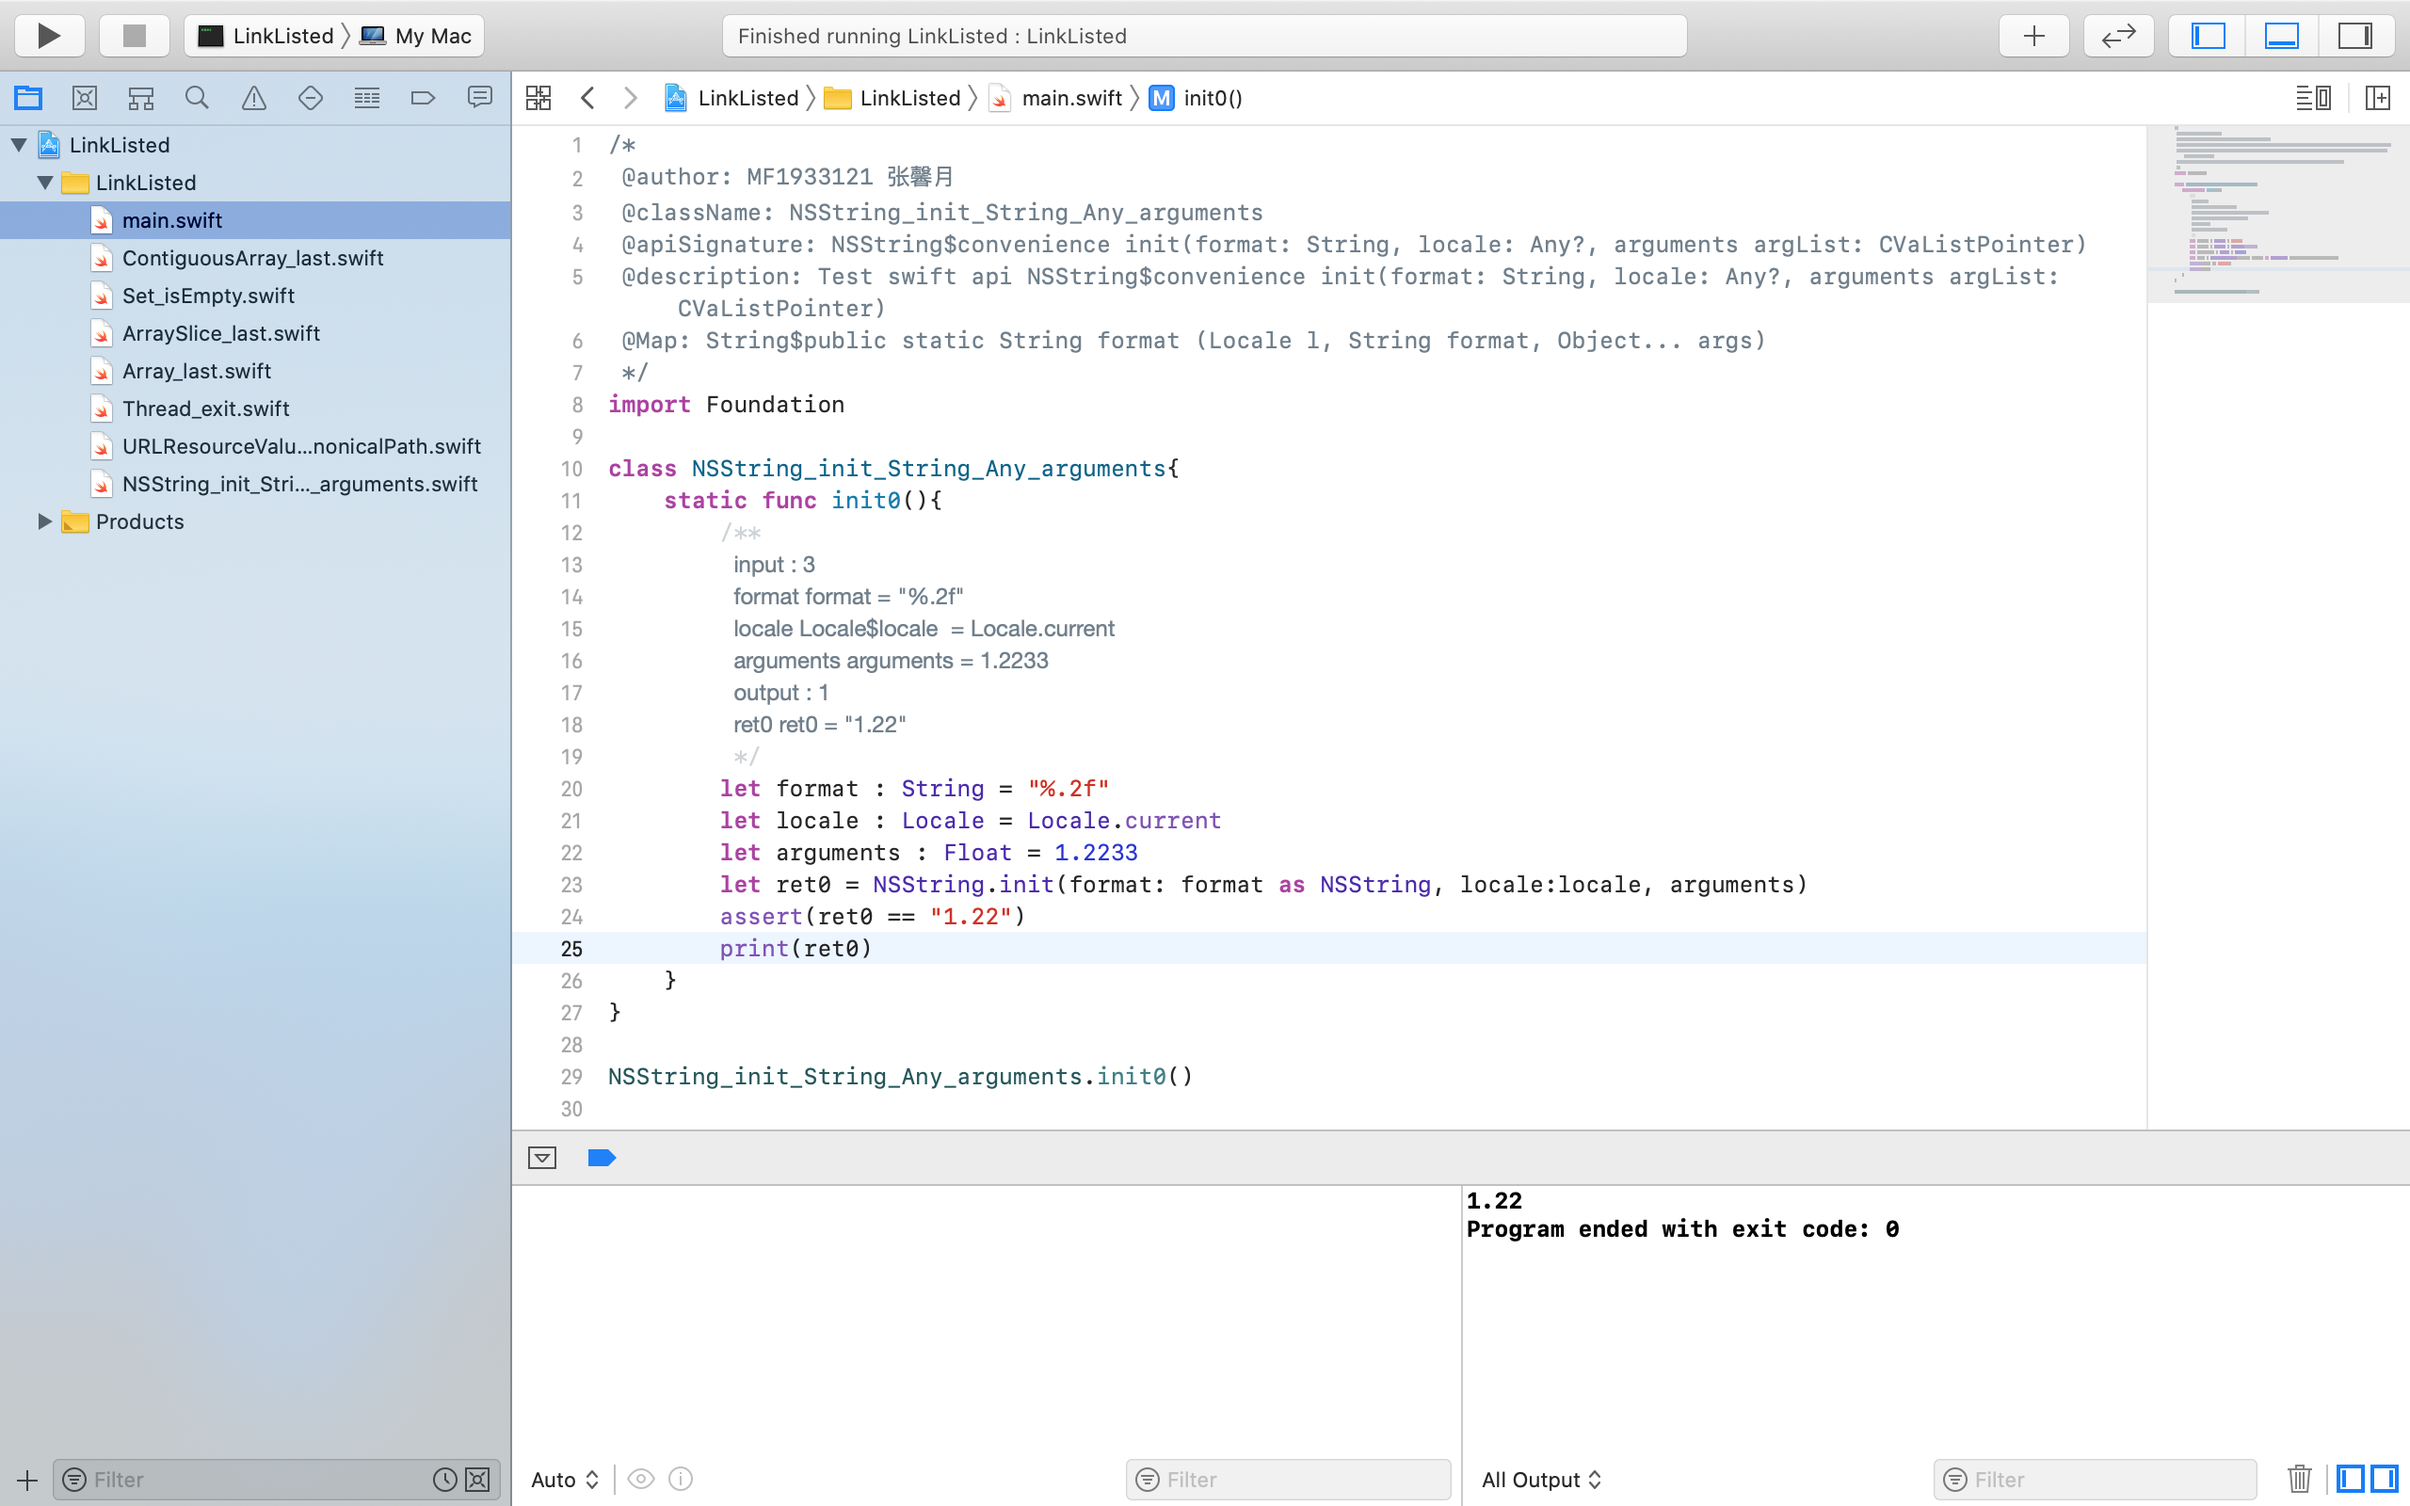
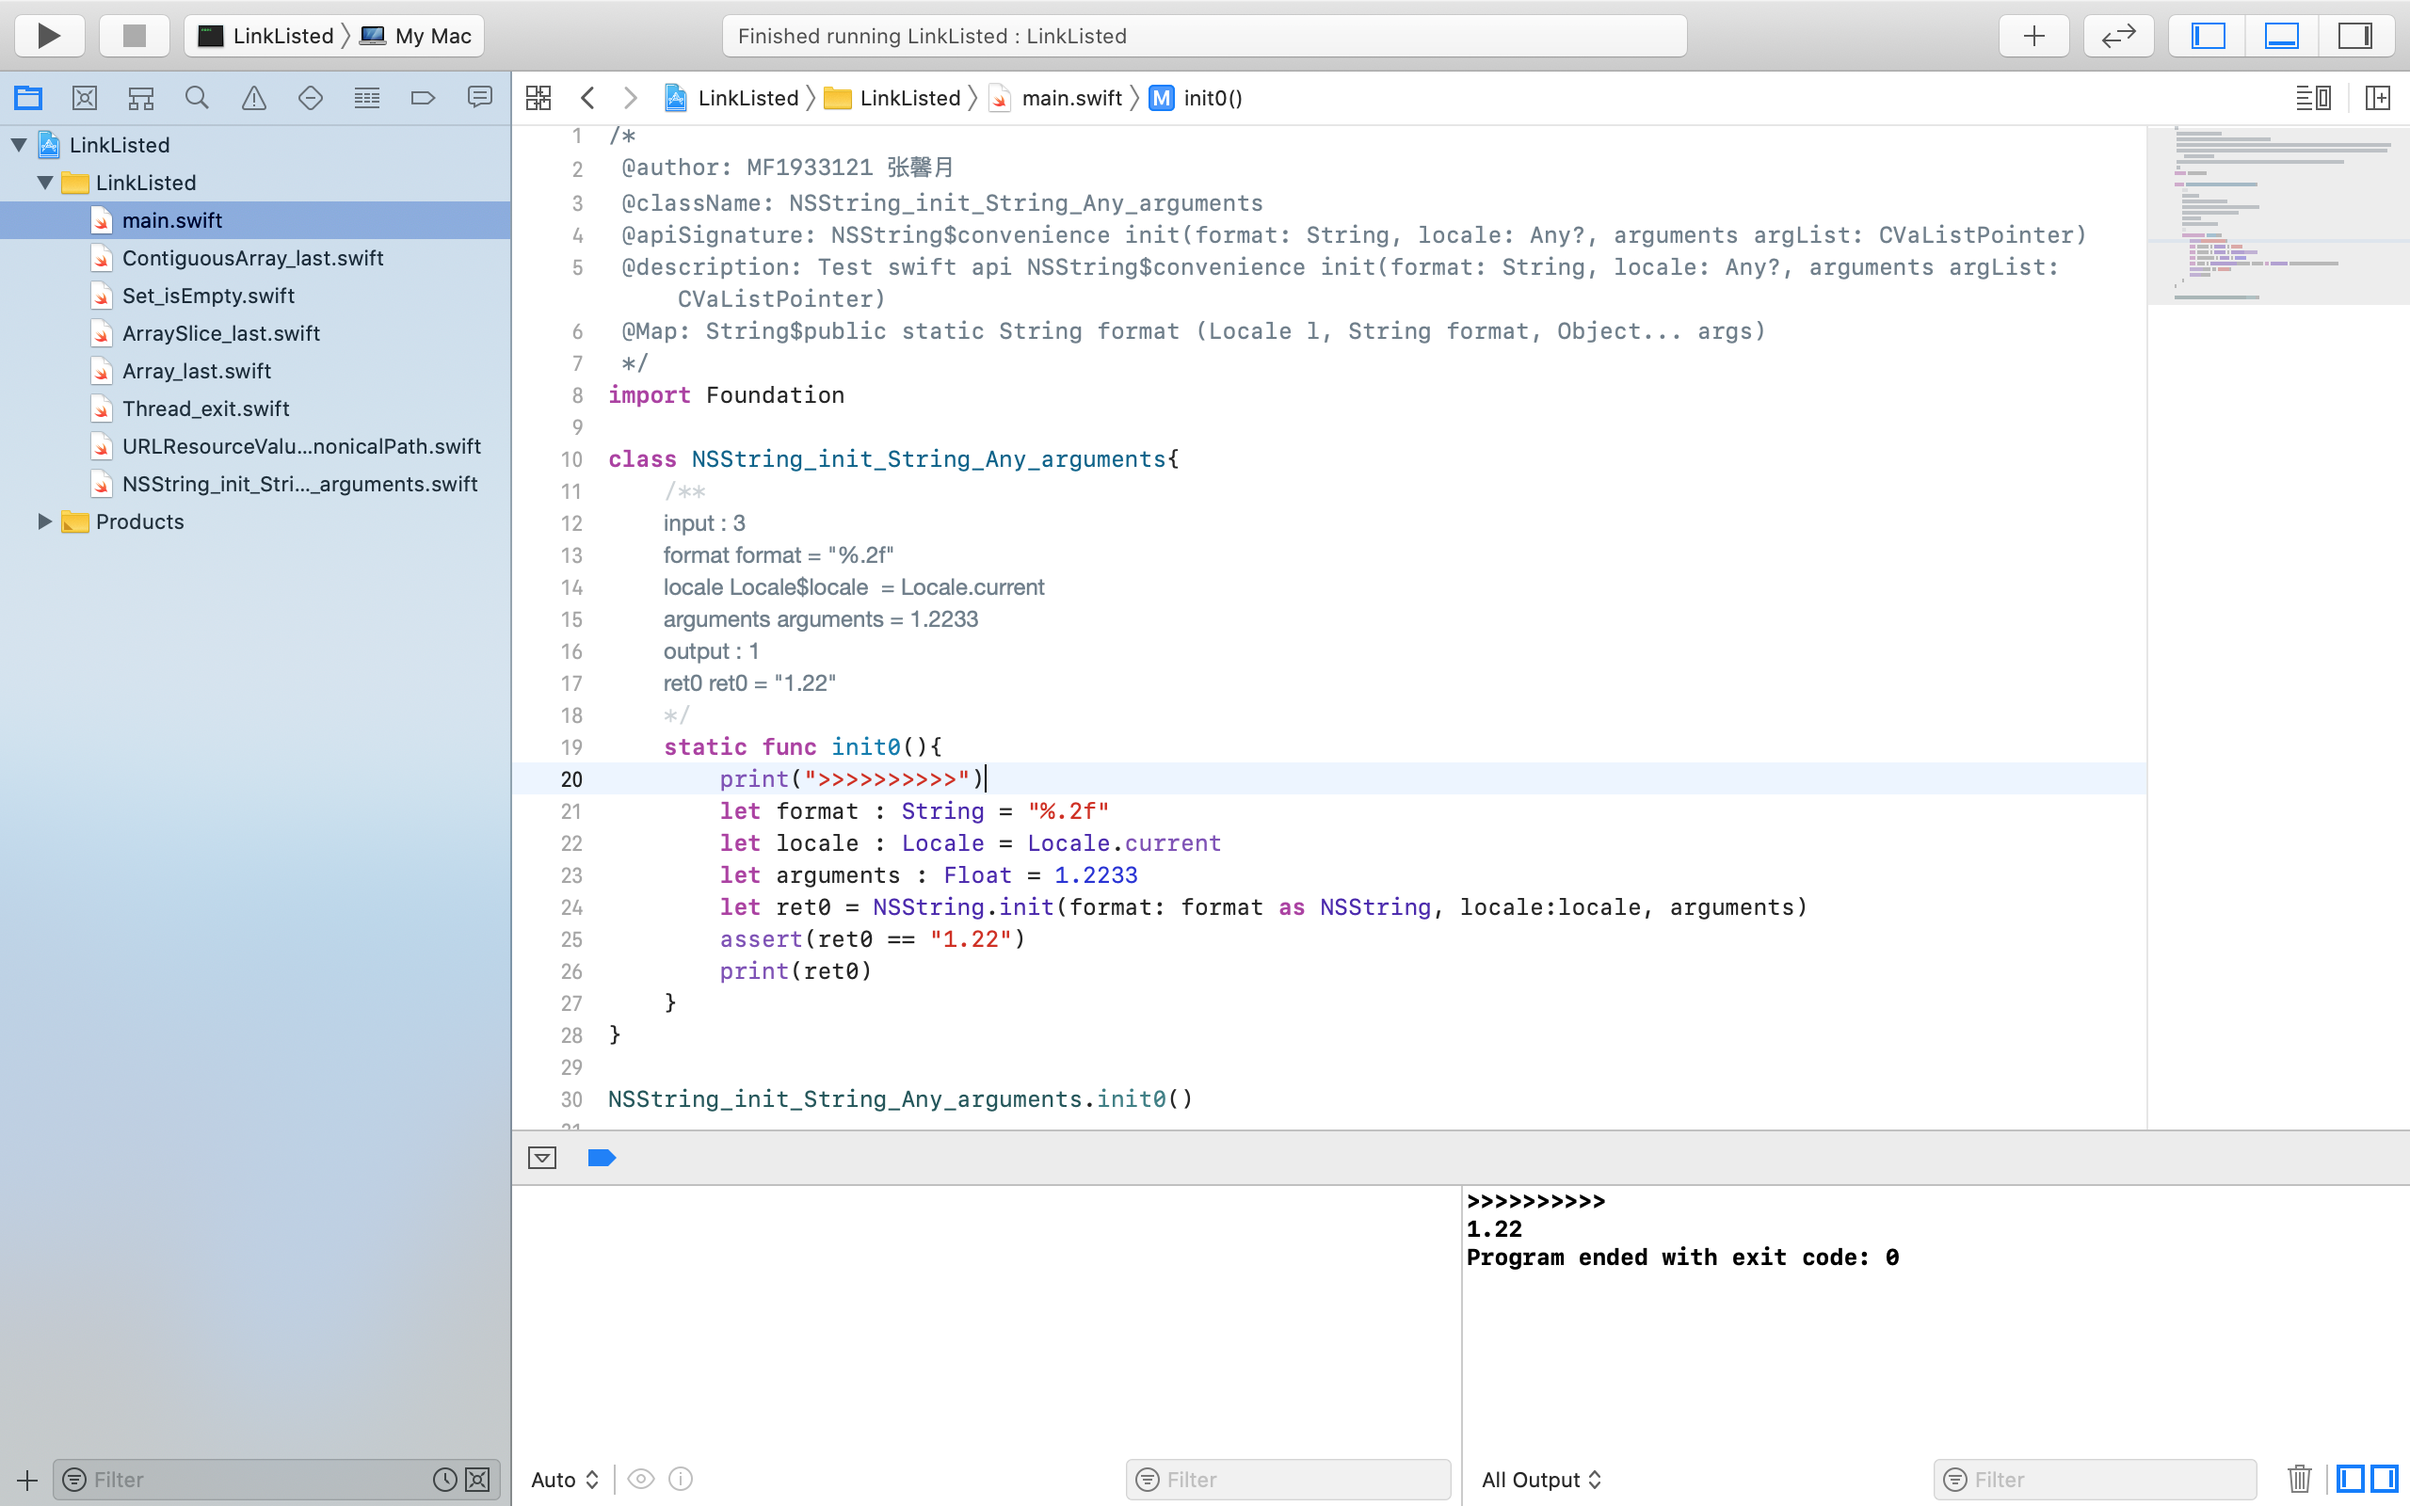
commit 4th

diff --git a/MF1933121/Swift/URLResourceValues_canonicalPath.swift b/MF1933121/Swift/URLResourceValues_canonicalPath.swift
@@ -12,41 +12,30 @@ class URLResourceValues_canonicalPath{
     input: 1
     class0 URL$class0
     output: 1
-    ret0 ret0 = false
+    ret0 ret0 = nil
     URL$class0-URL$URL(fileURLWithPath:String) & fileURLWithPath = "./mac/Documents" & https:stackoverflow.com/questions/40397131/get-fullpath-or-convert-to-fullpath
     **/
     static func canonicalPath0(){
+        print(">>>>>>>>>>")
         let class0 : URL = URL(fileURLWithPath: "./mac/Documents")
-        var ret0 = true;
-        if let cp = (try? class0.resourceValues(forKeys: [.canonicalPathKey]))?.canonicalPath
-        {
-            ret0 = true
-        }else{
-            ret0 = false
-        }
-        assert(ret0 == false)
+        let ret0 = (try? class0.resourceValues(forKeys: [.canonicalPathKey]))?.canonicalPath
+        assert(ret0 == nil)
         print(ret0)
     }
     /*
     input: 1
     class0 URL$class0
     output: 1
-    ret0 ret0 = false
+    ret0 ret0 = "/Users/mac/Documents"
     URL$class0-URL$URL(fileURLWithPath:String) & fileURLWithPath = "/Users/mac/Documents" & https:stackoverflow.com/questions/40397131/get-fullpath-or-convert-to-fullpath
     **/
     static func canonicalPath1(){
+        print(">>>>>>>>>>")
         let class0 = URL(fileURLWithPath: "/Users/mac/Documents")
-        var ret0 = true;
-        if let cp = (try? class0.resourceValues(forKeys: [.canonicalPathKey]))?.canonicalPath
-        {
-            ret0 = true
-        }else{
-            ret0 = false
-        }
-        assert(ret0 == true)
+        let ret0 = (try? class0.resourceValues(forKeys: [.canonicalPathKey]))?.canonicalPath
+        assert(ret0 == "/Users/mac/Documents")
         print(ret0)
     }
-
 }
 URLResourceValues_canonicalPath.canonicalPath0()
 URLResourceValues_canonicalPath.canonicalPath1()

diff --git a/MF1933121/Swift/Thread_exit.swift b/MF1933121/Swift/Thread_exit.swift
@@ -8,25 +8,23 @@
 import Foundation
 
 class Thread_exit{
+    /**
+    input : 1
+    class0 Thread$class0
+    output : 0
+    Thread$class0-Thread$Thread() &   &  https://swift.gg/2017/09/04/all-about-concurrency-in-swift-1-the-present/
+    */
     static func exit0(){
-        /**
-         input : 1
-         class0 Thread$class0
-         output : 1
-         ret0 ret0 = false
-         Thread$class0-Thread$Thread() &   &  https://swift.gg/2017/09/04/all-about-concurrency-in-swift-1-the-present/
-         */
+        print(">>>>>>>>>>")
         let class0 : Thread = Thread(){
             sleep(1)
             print("Thread$class0 start!")
             Thread.exit()
         }
-
         class0.start()
+
         sleep(3)
-        let ret0 = class0.isExecuting
-        assert(ret0 == false)
-        print(ret0)
+        assert(class0.isExecuting == false)
     }
 }
 

diff --git a/MF1933121/Swift/NSString_init_String_Any_arguments.swift b/MF1933121/Swift/NSString_init_String_Any_arguments.swift
@@ -8,15 +8,15 @@
 import Foundation
 
 class NSString_init_String_Any_arguments{
+    /**
+    input : 3
+    format format = "%.2f"
+    locale Locale$locale  = Locale.current
+    arguments arguments = 1.2233
+    output : 1
+    ret0 ret0 = "1.22"
+    */
     static func init0(){
-        /**
-         input : 3
-         format format = "%.2f"
-         locale Locale$locale  = Locale.current
-         arguments arguments = 1.2233
-         output : 1
-         ret0 ret0 = "1.22"
-         */
         let format : String = "%.2f"
         let locale : Locale = Locale.current
         let arguments : Float = 1.2233

diff --git a/MF1933121/Swift/Set_isEmpty.swift b/MF1933121/Swift/Set_isEmpty.swift
@@ -16,6 +16,7 @@ class Set_isEmpty{
      Set$class0-Set$Set<Int>() &   & https://developer.apple.com/documentation/swift/set
      */
     static func isEmpty0(){
+        print(">>>>>>>>>>")
         var class0 = Set<Int>()
         for i in 1..<7 {
             class0.insert(i)
@@ -33,6 +34,7 @@ class Set_isEmpty{
      Set$class0-Set$Set<Int>() &   & https://developer.apple.com/documentation/swift/set
      */
     static func isEmpty1(){
+        print(">>>>>>>>>>")
         let class0 = Set<Int>()
         let ret0 = class0.isEmpty
         assert(class0.count == 0)

diff --git a/MF1933121/Swift/ContiguousArray_last.swift b/MF1933121/Swift/ContiguousArray_last.swift
@@ -16,7 +16,7 @@ class ContiguousArray_last{
      ContiguousArray$class0-ContiguousArray$ContiguousArray<Int>() &   &  https://developer.apple.com/documentation/swift/contiguousarray
      */
     static func last0(){
-//        var class0 : ContiguousArray<Int> = [10, 30, 50]
+        print(">>>>>>>>>>")
         var class0 = ContiguousArray<Int>()
         class0.append(10)
         class0.append(30)

diff --git a/MF1933121/Swift/ArraySlice_last.swift b/MF1933121/Swift/ArraySlice_last.swift
@@ -16,7 +16,7 @@ class ArraySlice_last{
      ArraySlice$class0-ArraySlice$ArraySlice<Int>() &   & https://developer.apple.com/documentation/swift/arrayslice
      */
     static func last0(){
-//        var class0 : ArraySlice<Int> = [10, 30, 50]
+        print(">>>>>>>>>>")
         var class0 = ArraySlice<Int>()
         class0.append(10)
         class0.append(30)

diff --git a/MF1933121/Swift/Array_last.swift b/MF1933121/Swift/Array_last.swift
@@ -16,6 +16,7 @@ class Array_last{
      Array$class0-Array$Array<Int>() &   & https://developer.apple.com/documentation/swift/array
      */
     static func last0(){
+        print(">>>>>>>>>>")
         var class0 = Array<Int>()
         class0.append(10)
         class0.append(30)

diff --git a/MF1933121/Java/File_getCanonicalPath.java b/MF1933121/Java/File_getCanonicalPath.java
@@ -13,40 +13,30 @@ public class File_getCanonicalPath {
      * input: 1
      * class0 File$class0
      * output: 1
-     * ret0 ret0 = false
+     * ret0 ret0 = "/Users/mac/Desktop/努力努力再努力/南大/code/软件方法学作业/Java_Swift工程文件/Java/mac/Documents"
      * File$class0-File$File(String pathname) & pathname = "./mac/Documents" & https://developer.android.google.cn/reference/java/io/File.html
      * */
     public static void getCanonicalPath0() throws IOException {
+        System.out.println(">>>>>>>>>>");
         String path = "./mac/Documents";
         File class0 = new File(path);
-        boolean ret0 = true;
-        String canonical_path = class0.getCanonicalPath();
-        if(path.equals(canonical_path)){
-            ret0 = true;
-        }else{
-            ret0 = false;
-        }
-        assert (ret0 == false);
+        String ret0 = class0.getCanonicalPath();
+        assert(ret0 != path);
         System.out.println(ret0);
     }
     /*
      * input: 1
      * class0 File$class0
      * output: 1
-     * ret0 ret0 = true
+     * ret0 ret0 = "/Users/mac/Documents"
      * File$class0-File$File(String pathname) & pathname =  "/Users/mac/Documents" & https://developer.android.google.cn/reference/java/io/File.html
      * */
     public static void getCanonicalPath1() throws IOException {
+        System.out.println(">>>>>>>>>>");
         String path = "/Users/mac/Documents";
         File class0 = new File(path);
-        boolean ret0 = true;
-        String canonical_path = class0.getCanonicalPath();
-        if(path.equals(canonical_path)){
-            ret0 = true;
-        }else{
-            ret0 = false;
-        }
-        assert (ret0 == false);
+        String ret0 = class0.getCanonicalPath();
+        assert(ret0 == path);
         System.out.println(ret0);
     }
     public static void main(String[] args) throws IOException {

diff --git a/MF1933121/Java/String_format_Locale_String_Object.java b/MF1933121/Java/String_format_Locale_String_Object.java
@@ -8,16 +8,17 @@
 import java.util.Locale;
 
 public class String_format_Locale_String_Object {
+    /*
+     * input : 3
+     * l Locale$l
+     * format format = "%.2f"
+     * args args = 1.2233
+     * output : 1
+     * ret0 ret0 = "1.22"
+     * Locale$l-Locale$public static Locale getDefault () &   & https://developer.android.com/reference/java/util/Locale?hl=en#getDefault()
+     * */
     public static void format0(){
-        /*
-        * input : 3
-        * l Locale$l
-        * format format = "%.2f"
-        * args args = 1.2233
-        * output : 1
-        * ret0 ret0 = "1.22"
-        * Locale$l-Locale$public static Locale getDefault () &   & https://developer.android.com/reference/java/util/Locale?hl=en#getDefault()
-        * */
+        System.out.println(">>>>>>>>>>");
         Locale l = Locale.getDefault();
         String format = "%.2f";
         double args = 1.2233;

diff --git a/MF1933121/Java/Thread_interrupt.java b/MF1933121/Java/Thread_interrupt.java
@@ -9,18 +9,17 @@ public class Thread_interrupt{
     /*
     * input : 1
     * class0 Thread$class0
-    * output : 1
-    * ret0 ret0 = false
+    * output : 0
     * Thread$class0-Thread$Thread() &   & https://developer.android.com/reference/java/lang/Thread?hl=en
     * */
     public static void interrupt0() {
+        System.out.println(">>>>>>>>>>");
         Thread class0 = new Thread();
         class0.start();
         for(int i = 0 ; i < 2000000; i++){}
+        assert (class0.isAlive() == true);
         class0.interrupt();
-        boolean ret0 = class0.isAlive();
-        assert(ret0 == false);
-        System.out.println(ret0);
+        assert(class0.isAlive() == false);
     }
 
     public static void main(String[] args) {

diff --git a/MF1933121/Java/HashSet_isEmpty.java b/MF1933121/Java/HashSet_isEmpty.java
@@ -16,6 +16,7 @@ public class HashSet_isEmpty {
      * HashSet$class0-HashSet$HashSet() &   & https://developer.android.com/reference/java/util/HashSet#HashSet()
      * */
     public static void isEmpty0(){
+        System.out.println(">>>>>>>>>>");
         HashSet class0 = new HashSet();
         for(int i = 1 ; i <= 6 ; i++ ){
             class0.add(i);
@@ -33,6 +34,7 @@ public class HashSet_isEmpty {
      * HashSet$class0-HashSet$HashSet() &   & https://developer.android.com/reference/java/util/HashSet#HashSet()
      * */
     public static void isEmpty1(){
+        System.out.println(">>>>>>>>>>");
         HashSet class0 = new HashSet();
         boolean ret0 = class0.isEmpty();
         assert (class0.size() == 0);

diff --git a/MF1933121/Java/LinkedList_getLast.java b/MF1933121/Java/LinkedList_getLast.java
@@ -18,6 +18,7 @@ public class LinkedList_getLast {
     * LinkedList$class0-LinkedList$LinkedList() &   & https://developer.android.com/reference/java/util/LinkedList#LinkedList()
     * */
     public static void getLast0(){
+        System.out.println(">>>>>>>>>>");
         LinkedList class0 = new LinkedList();
         class0.add(10);
         class0.add(30);
